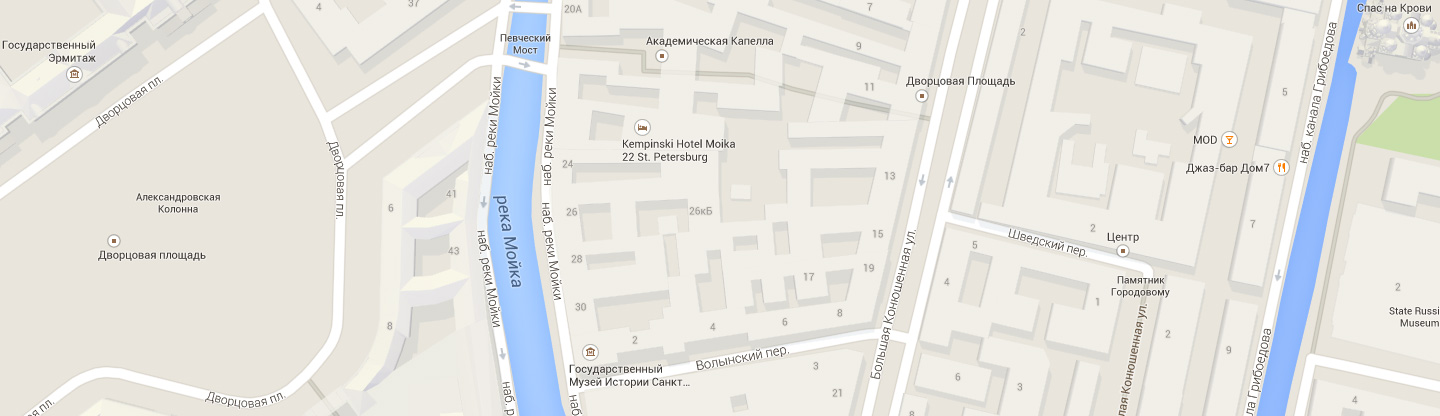
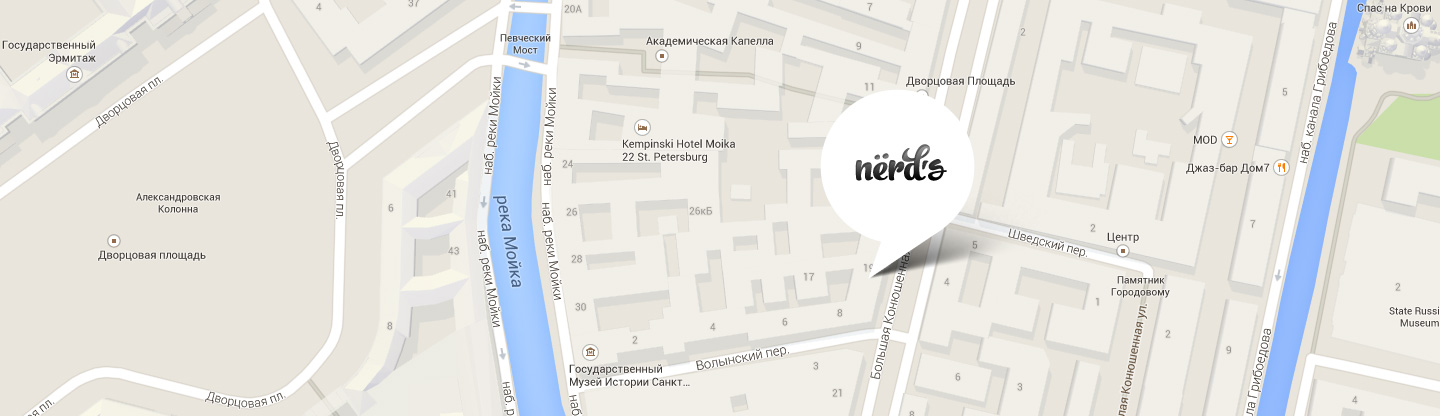
последние правки

Changed region(s): [[0.5625, 0.2188, 0.6875, 0.6562]]

diff --git a/css/style.css b/css/style.css
@@ -460,8 +460,8 @@ header {
     flex-basis: 1160px;
     padding-left: 30px;
     padding-right: 00px;
-    padding-top: 105px;
-    padding-bottom: 116px;
+    padding-top: 101px;
+    padding-bottom: 120px;
     -webkit-box-align: center;
     -ms-flex-align: center;
     align-items: center;
@@ -539,22 +539,14 @@ header {
     height: 2px;
  }
 
-.map::before {
-    content: "";
-    position: absolute;
-    top: 89px;
-    left: 820px;
-    background: url("../img/sprite.png") no-repeat;
-    width: 231px;
-    height: 190px;
-    background-position: -811px -255px;
- }
-
 .map {
+    min-width: 1160px;
     max-width: 1440px;
     position: relative;
-    margin: 0 auto;
+    margin-left: auto;
+	margin-right: auto;
     background-image: url("../img/map.jpg");
+    background-position: center;
     height: 416px;
 }
 
@@ -564,7 +556,8 @@ header {
     height: 308px;
     background: url("../img/whitebackmap.png") no-repeat;
     top: 54px;
-    left: 140px;
+    left: 50%;
+    transform: translateX(-580px);
 }
 
 .adress b {
@@ -1141,10 +1134,12 @@ input[type="radio"]:checked + label::after {
 .modal-content {
     display: none;
     position: absolute;
-    top: -137px;
-    left: 740px;
+    bottom: -36px;
     width: 762px;
-    margin-left: -500px;
+    left: 0;
+    right: 0;
+    margin: auto;
+    margin-top: - 200px;
     padding: 25px 99px;
     padding-left: 99px;
     color: #000000;
